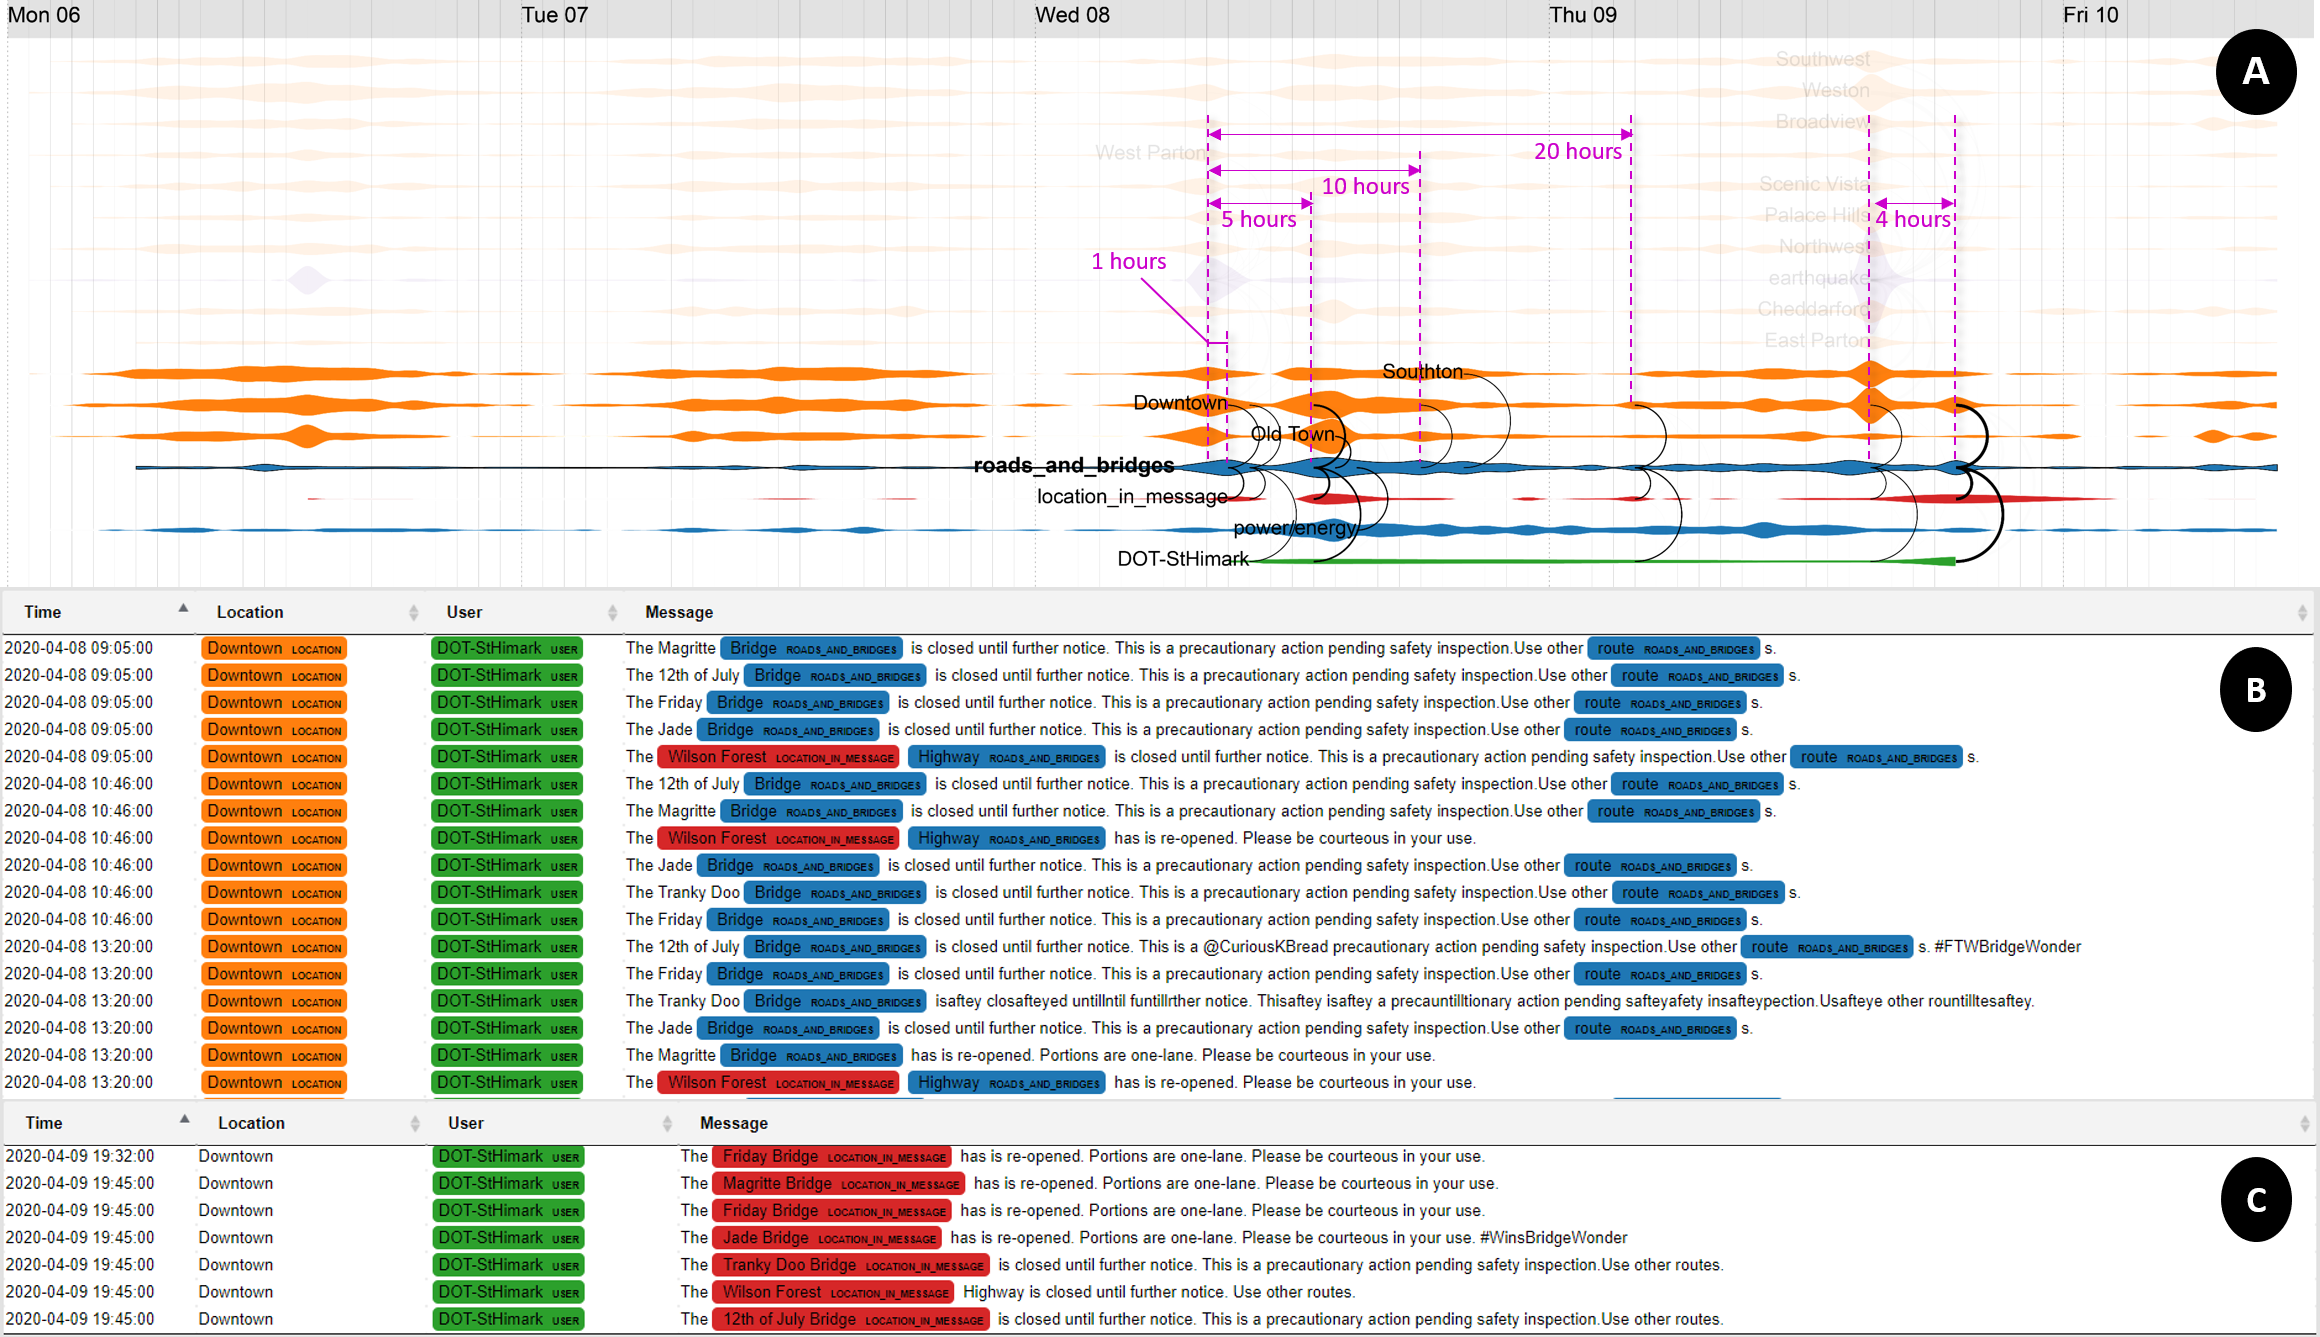
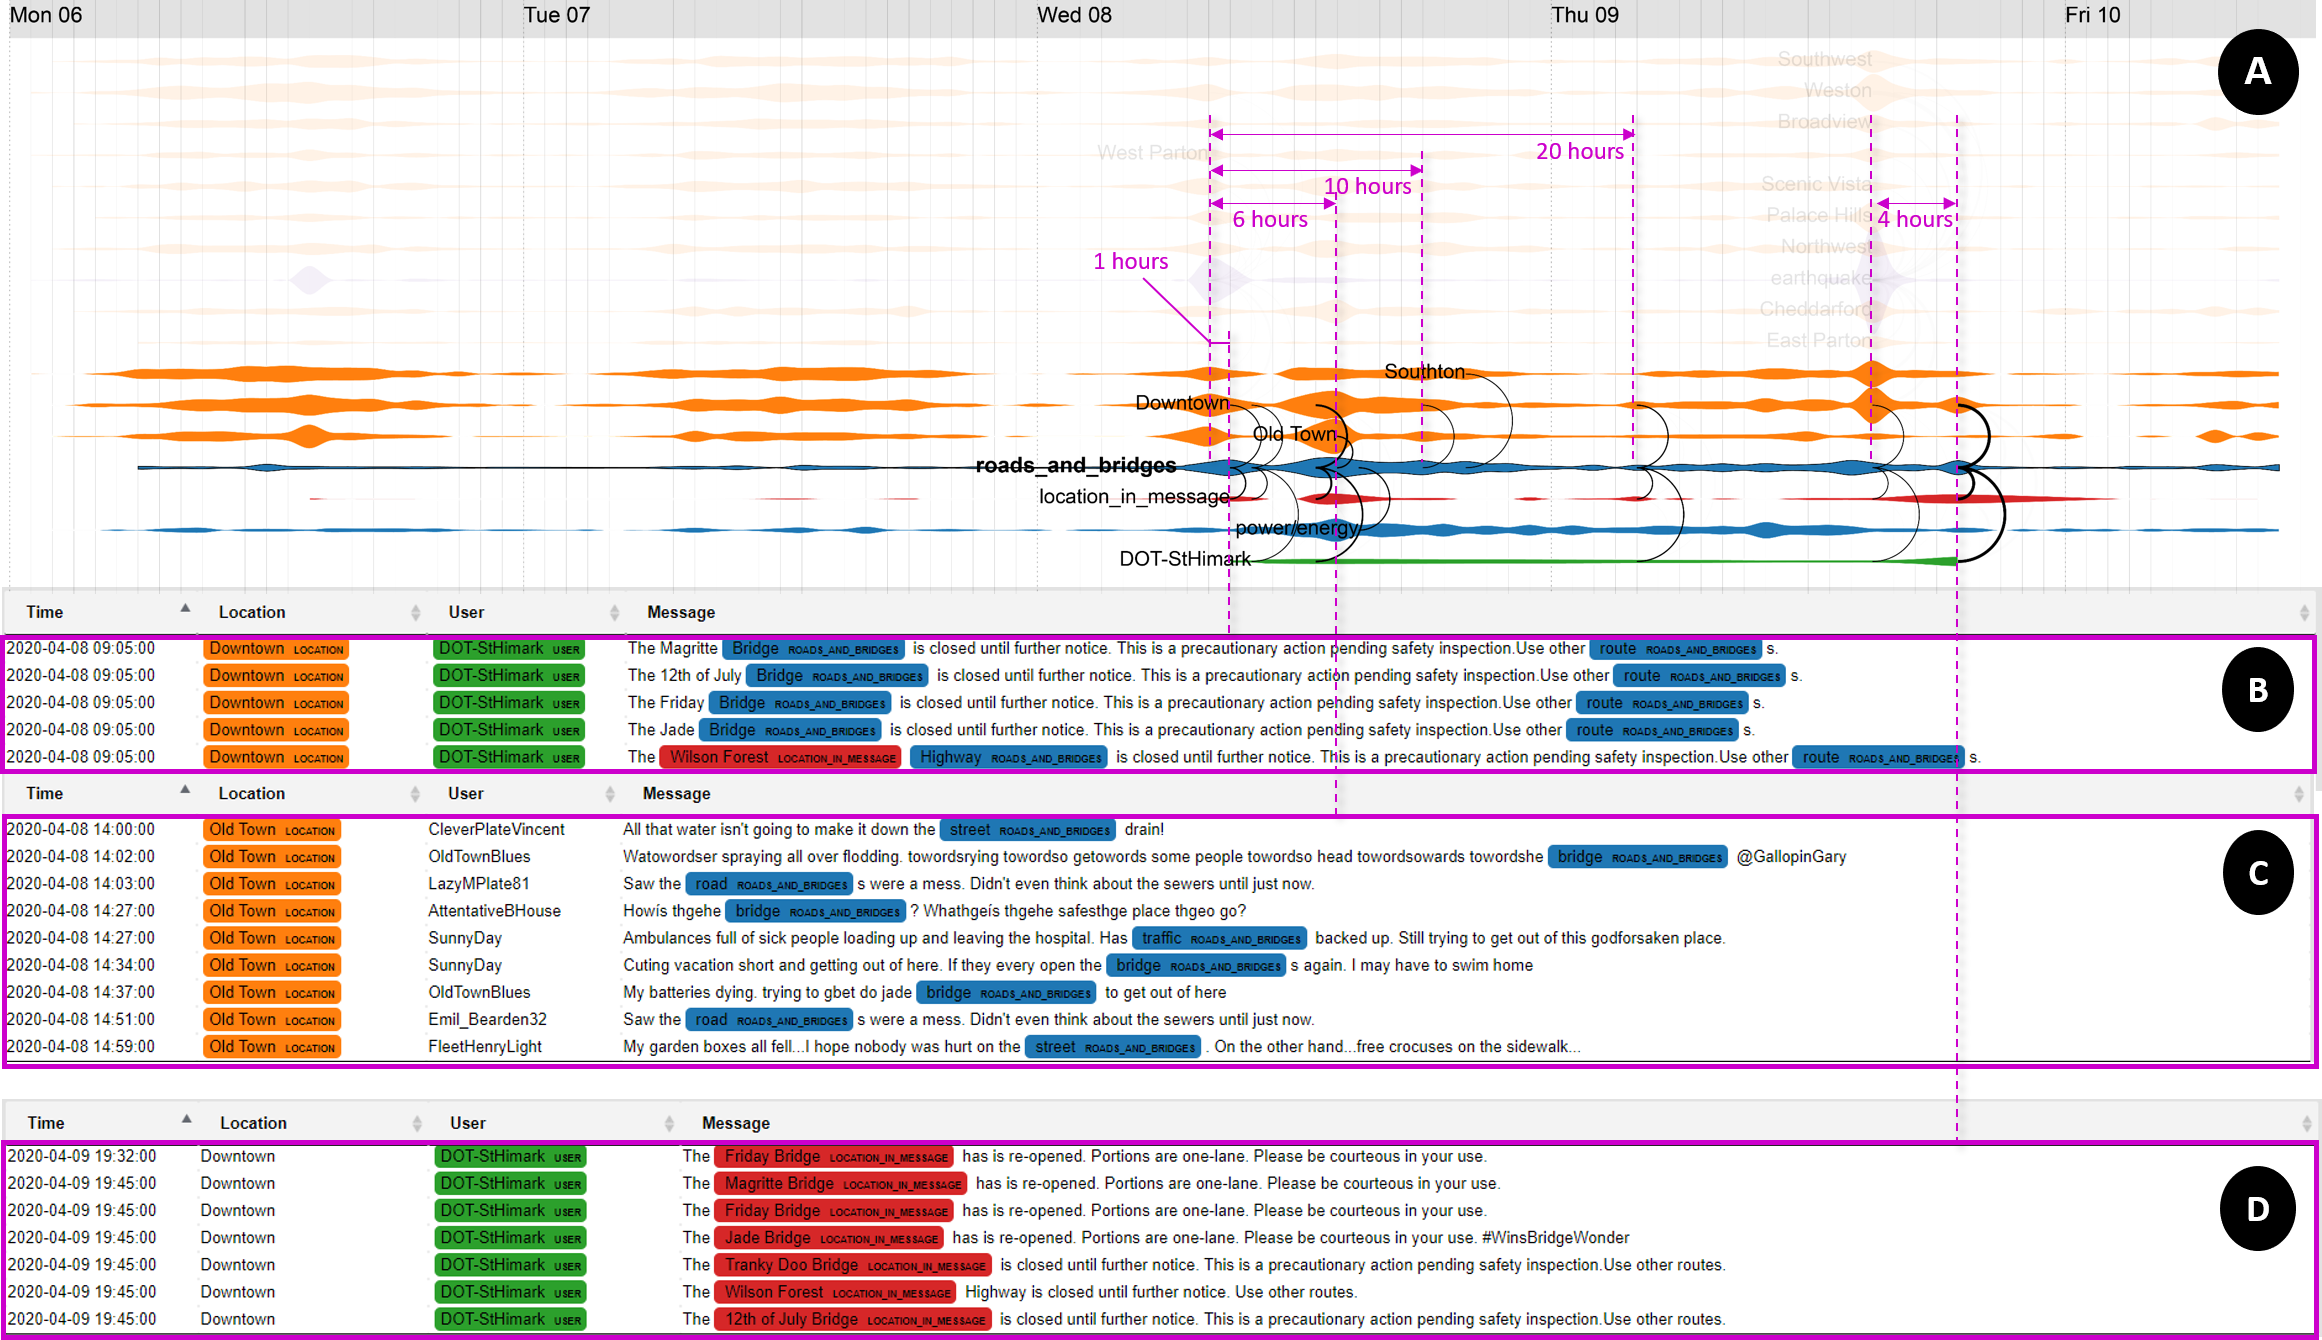
update

diff --git a/VAST19/mc3/TTU-Vuong-MC3/index.htm b/VAST19/mc3/TTU-Vuong-MC3/index.htm
@@ -134,7 +134,7 @@
         <img id="road" src="images/road.png" class="full">
         <p class="caption"><span>Figure 3. Road and bridge related posts and the story.</span></p>
         <div>
-            Road crews need to be assigned during 5 hours after 2nd earthquake pulse and 4 hours after 3rd earthquake pulse.
+            Figure 3 (A) shows the roads and bridges stream and the connection to other terms.Road crews need to be assigned during 5 hours after 2nd earthquake pulse and 4 hours after 3rd earthquake pulse.
             The mayor location need road crew is DownTown, Old Town, Scenic Vista Cheddarford, Southon and the bridges. There is one user - DOT-StHimark reports all information about roads and bridge in Figure 3 (B). At the end of the Y*INT data (C), there are 3 bridges/route still close:
             Tranky Doo Bridge, Wilson Forest Highway and 12th July Bridge (connected with Safe town). We believe this related to the leak contaminated water event in mini-challenge 2.
         </div>
